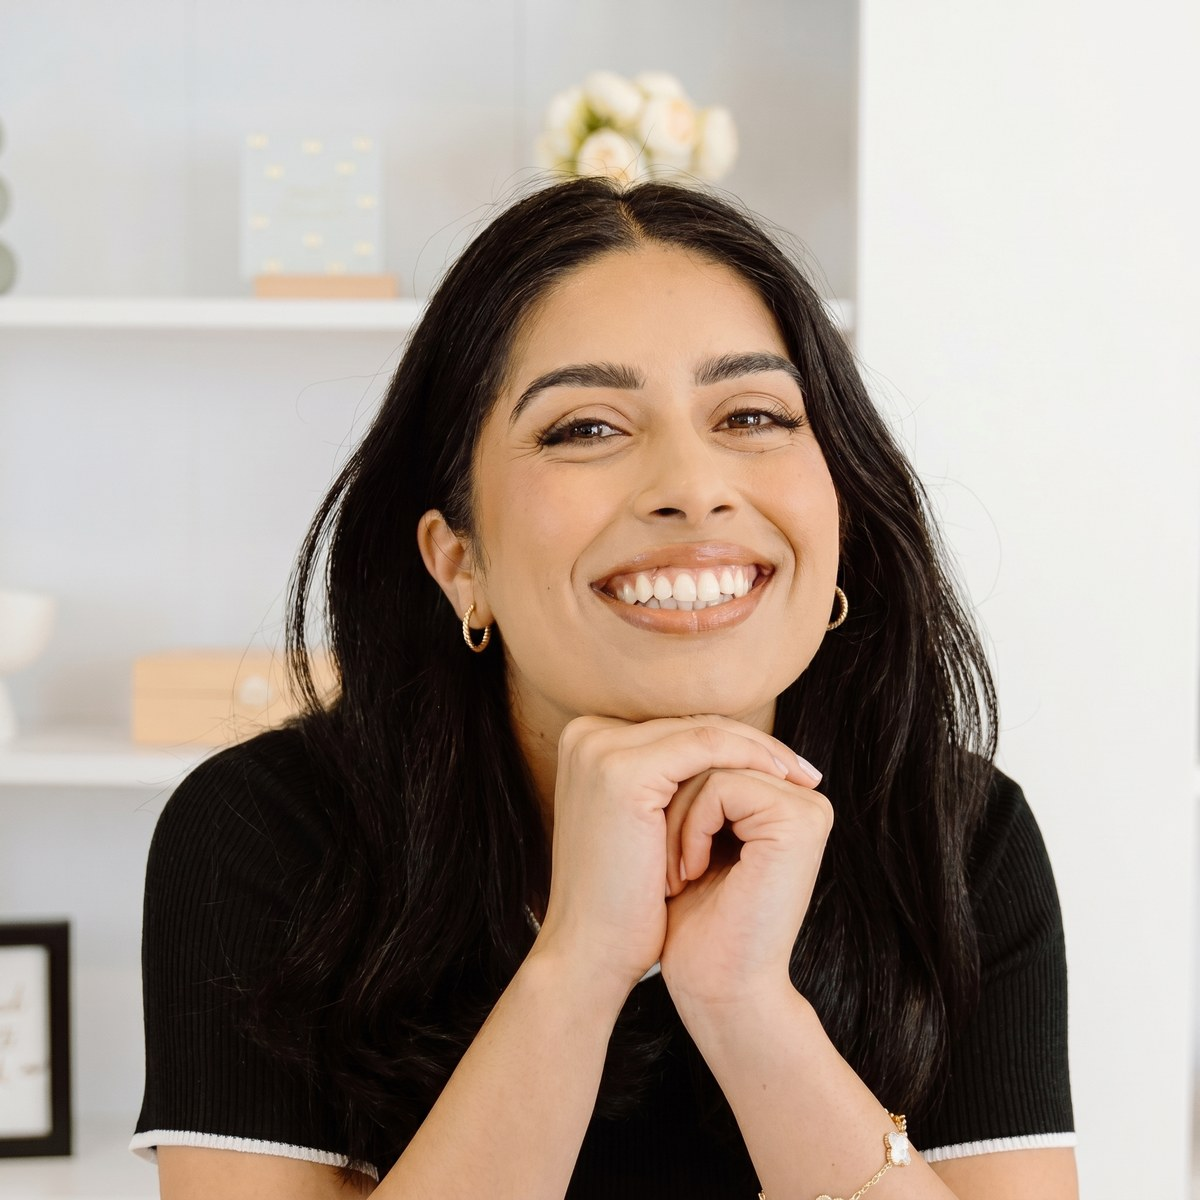
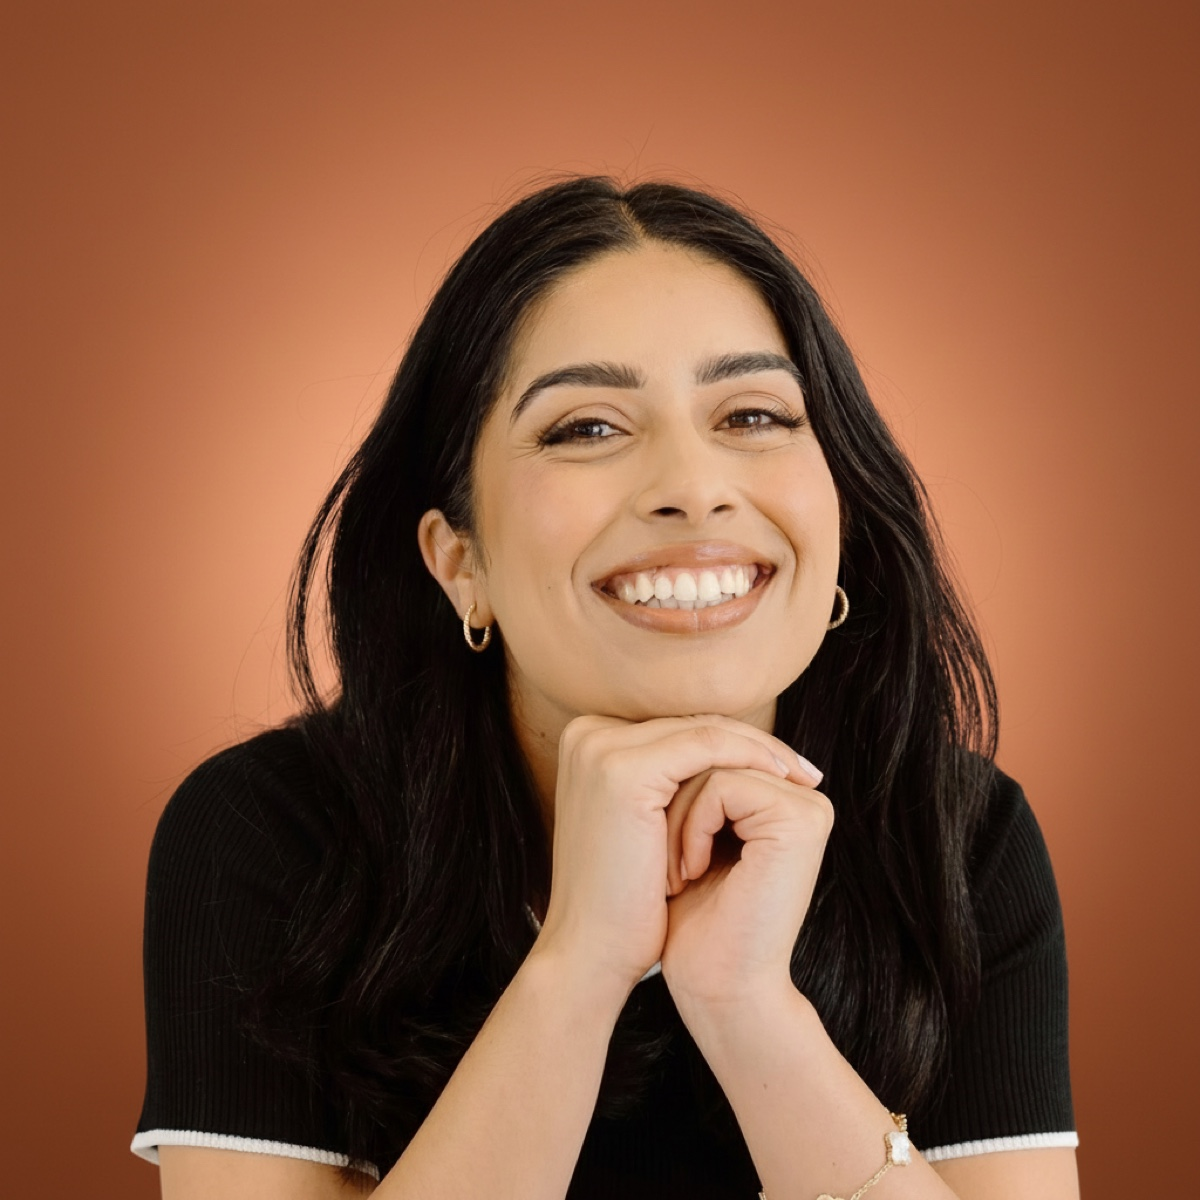
Update Brit MacRae photo, add warm backdrop to Simran, shorten Tom Junod bio

diff --git a/src/app/page.tsx b/src/app/page.tsx
@@ -24,7 +24,7 @@ const comingThisYear: { name: string; role: string; knownFor: string; image?: st
   { name: "Rasa Izadnegahdar", role: "Global Health Director", knownFor: "Gates Foundation", image: "/images/speakers/rasa-izadnegahdar.jpg" },
   { name: "Kate Snyder", role: "Creative Director", knownFor: "Studio Roslyn", image: "/images/speakers/kate-snyder.jpg" },
   { name: "Greg Lansky", role: "Artist", knownFor: "Contemporary Art", image: "/images/speakers/greg-lansky.jpg" },
-  { name: "Tom Junod", role: "Writer", knownFor: "Esquire, GQ, Atlantic", image: "/images/speakers/tom-junod.jpg" },
+  { name: "Tom Junod", role: "Writer", knownFor: "GQ, Esquire", image: "/images/speakers/tom-junod.jpg" },
   { name: "Brit MacRae", role: "Actress", knownFor: "KINO", image: "/images/speakers/brit-macrae.jpg" },
   { name: "Flo Crivello", role: "Founder", knownFor: "Lindy AI", image: "/images/speakers/flo-crivello.jpg" },
   { name: "Osric Chau", role: "Actor", knownFor: "Supernatural", image: "/images/speakers/osric-chau.jpg" },